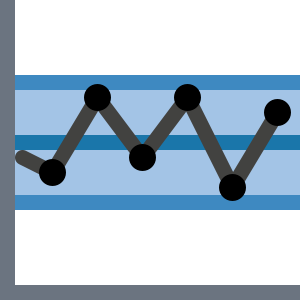
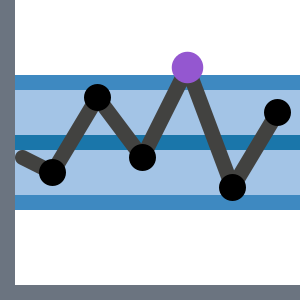
Lad fjerde datapunkt bryde den øvre kontrolgrænse
Motivet viste et diagram i kontrol. Nu viser det et brud, hvilket er det,
visualen findes for at finde. Fjerde punkt er løftet to pixels, fra række 6
til række 4, og ligger dermed over grænselinjen i række 5.

Punktet er markeret med #9457d0 — visualens egen beyond_limit (#490092)
lysnet. Den oprindelige ligger på 1,31:1 mod mørk baggrund og ville
forsvinde dér, og punktet er det vigtigste i motivet. Den lysnede klarer
4,63:1 mod hvid og 3,51:1 mod mørk.

Ændringen flytter for første gang en del af serien uden for båndet. Det
betyder noget: inde i båndet er baggrunden uigennemsigtig, og serien kan
være mørk uden hensyn til tema. Uden for båndet rører den sidens baggrund,
og den mørke #424240 giver 1,61:1 på mørkt tema. De to pixels, der flankerer
toppen, forsvandt derfor på mørkt tema, og toppen så ud til at svæve.

Serien skifter nu til aksens #6b7480 over grænselinjen. Det er samme regel,
aksen allerede følger: alt, der rører den gennemsigtige baggrund, skal
klare begge temaer. I icon.svg gøres det med en clipPath over række 5, så
kurven kun er defineret ét sted.

I icon.png er kun de to segmenter omkring toppen tegnet om; resten af de
håndsatte pixels er urørte. Stregvægten er valgt ved at sammenligne tre
gengivelser mod de omkringliggende segmenter.

Kontrolleret, at alt, der rører den gennemsigtige baggrund, klarer 3:1 i
begge temaer. Den ene pixel, der måler lavere, ligger oven på grænselinjen,
hvor baggrunden aldrig når igennem.
[…]

Changed region(s): [[0.45, 0.15, 0.78, 0.6]]

diff --git a/assets/README.md b/assets/README.md
@@ -29,6 +29,10 @@ rettes. Paletten står i tabellen nedenfor.
 Et kontroldiagram: centerlinje, to kontrolgrænser med et udfyldt bånd imellem,
 og en serie på seks datapunkter, der svinger om centerlinjen.
 
+**Fjerde datapunkt ligger over den øvre kontrolgrænse.** Det er motivets
+pointe: visualen findes for at finde den slags punkter. Punktet er markeret
+med visualens egen farve for punkter uden for kontrol.
+
 Det tidligere ikon viste en usædvanligt lang serie — det ene af de to signaler,
 runs-analysen leder efter. Det havde for mange detaljer til 20×20: den stiplede
 centerlinje blev til tåge, og punkterne smeltede sammen med linjen. Det gamle
@@ -41,11 +45,17 @@ motiv og dets SVG-kilde ligger i historikken frem til `5b14844`.
 | Bånd | `#a3c4e6` | 1,81:1 mod hvid |
 | Kontrolgrænser | `#3e89c1` | 3,78:1 mod hvid, 4,30:1 mod mørk |
 | Centerlinje | `#1a76aa` | 4,98:1 mod hvid, 3,26:1 mod mørk |
-| Serie | `#424240` | 3,69–5,56:1 mod båndet |
+| Serie, inde i båndet | `#424240` | 3,69–5,56:1 mod båndet |
+| Serie, uden for båndet | `#6b7480` | 4,74:1 mod hvid, 3,43:1 mod mørk |
 | Datapunkter | `#000000` | 11,60:1 mod båndet |
+| Punkt uden for kontrol | `#9457d0` | 4,63:1 mod hvid, 3,51:1 mod mørk |
 | Akse | `#6b7480` | 4,74:1 mod hvid, 3,43:1 mod mørk |
 
 `#3e89c1` er projektets blå og bruges også i visualen.
+
+`#9457d0` er visualens `beyond_limit` (`#490092`) lysnet. Den oprindelige
+ligger på 1,31:1 mod mørk baggrund og ville forsvinde dér — og punktet er det
+vigtigste i motivet.
 
 I `icon.png` er serien ikke én farve, men en håndsat udglatning hen over
 26 pixels. Tallet i tabellen er spændet. I `icon.svg` er den én streg.
@@ -60,9 +70,15 @@ klare både lyst og mørkt tema, og vinduet er smalt: relativ luminans mellem
 0,143 og 0,300. Uden for det falder den igennem i det ene tema eller det andet.
 Sort klarer kun lyst tema — derfor er aksen ikke sort.
 
-**Serien, punkterne, centerlinjen** ligger alle oven på båndet, som er
+**Serien, punkterne, centerlinjen** ligger oven på båndet, som er
 uigennemsigtigt. Deres kontrast er den samme i begge temaer, og det er båndet,
 ikke sidens baggrund, de skal måles imod. Her er mørkt det rigtige valg.
+
+**Toppen, der stikker op over den øvre grænse**, er undtagelsen. Dér slipper
+serien båndet og rører baggrunden, og en mørk streg ville falde igennem på
+mørkt tema. Derfor skifter serien til aksens grå over grænselinjen — og derfor
+er brudpunktet den lysnede lilla og ikke visualens egen. I `icon.svg` gøres det
+med en `clipPath` over række 5, så kurven kun står ét sted.
 
 **Båndet** ligger bevidst under de 3:1, grafik ellers bør have. Det er en
 baggrundsflade, og grænselinjerne er dens kant — jo mørkere båndet bliver, jo
